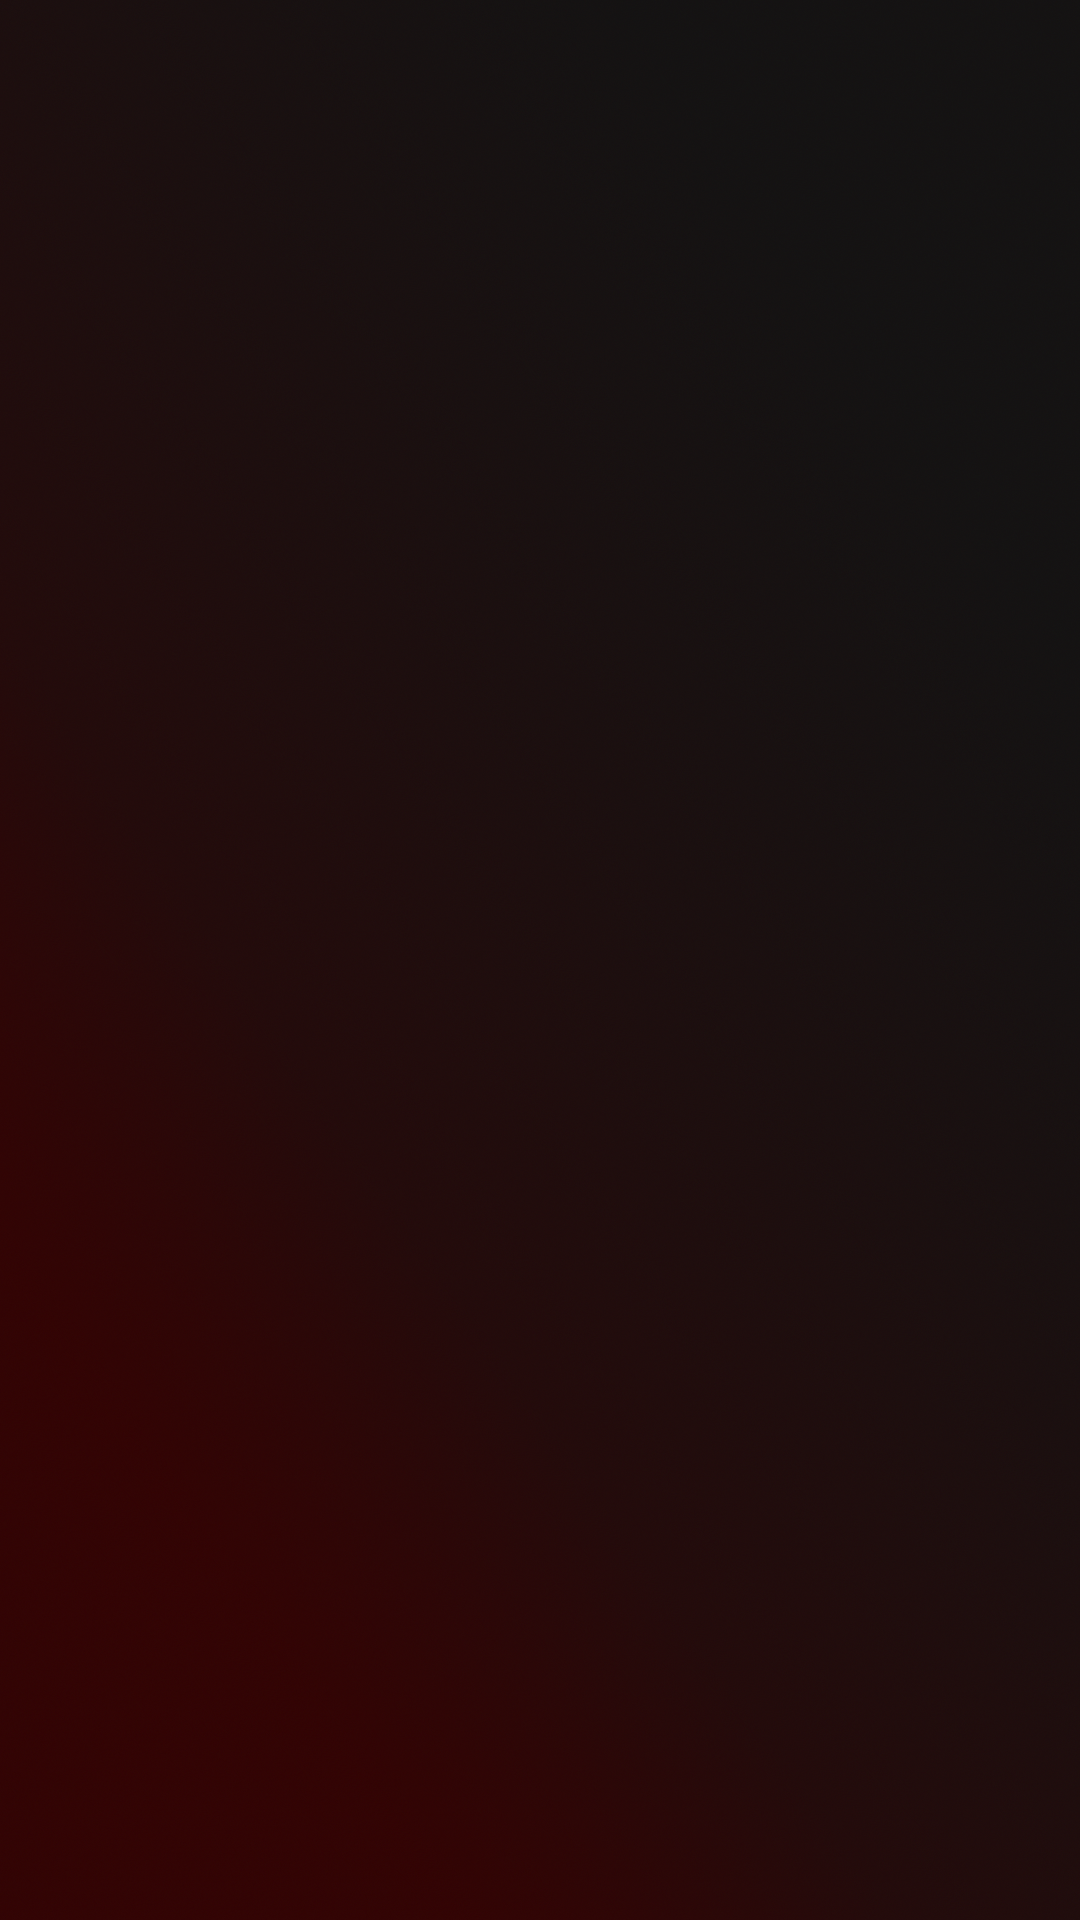
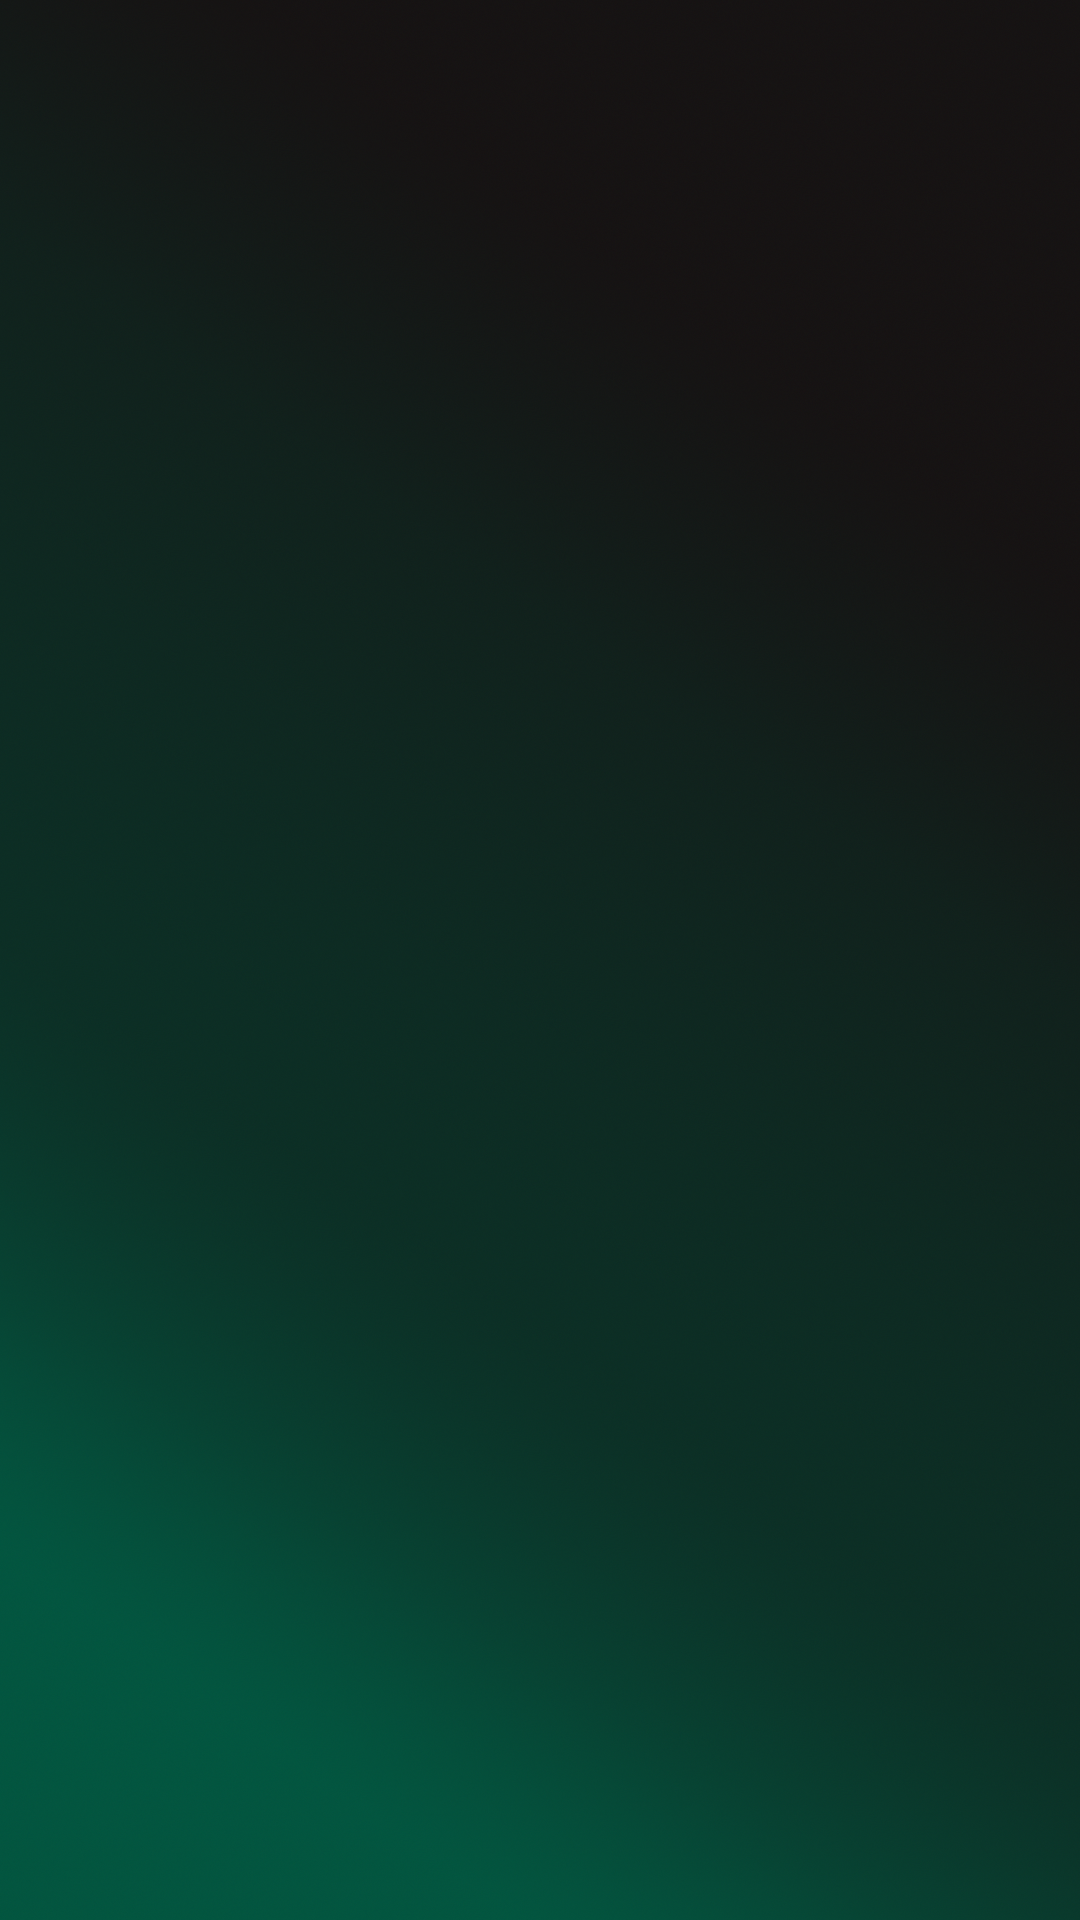
mise à jour design

diff --git a/App/lib/Components/Tools/Theme/ColorsTheme.dart b/App/lib/Components/Tools/Theme/ColorsTheme.dart
@@ -4,10 +4,10 @@ ThemeData darkTheme = ThemeData(
 	brightness: Brightness.light,
 	splashColor:  Colors.transparent,
 	focusColor: const Color.fromRGBO(238, 238, 238, 1),
-	primaryColor: const Color.fromRGBO(25, 25, 25, 1),
+	primaryColor: const Color.fromRGBO(34, 40, 47, 1),
 	colorScheme: const ColorScheme.light(
 		secondary: Color.fromRGBO(238, 238, 238, 1),
-		tertiary: Color.fromRGBO(229, 72, 77, 1)
+		tertiary: Color.fromRGBO(16, 223, 168, 1)
 	),
 	textSelectionTheme: const TextSelectionThemeData(
 		cursorColor: Color.fromARGB(255, 89, 157, 230),
@@ -19,7 +19,7 @@ ThemeData darkTheme = ThemeData(
 			color: Color.fromRGBO(180, 180, 180, 1),
 		)
 	),
-	scaffoldBackgroundColor: const Color.fromRGBO(17, 17, 17, 1),
+	scaffoldBackgroundColor: const Color.fromRGBO(20, 24, 29, 1),
 	dividerColor: const Color.fromARGB(255, 68, 67, 67),
 	shadowColor: Colors.black45
 );

diff --git a/App/lib/Components/FondamentalAppCompo/TopOfView.dart b/App/lib/Components/FondamentalAppCompo/TopOfView.dart
@@ -3,6 +3,7 @@ import 'package:flutter/cupertino.dart';
 import 'package:flutter/material.dart';
 import 'package:flutter/services.dart';
 import 'package:gap/gap.dart';
+import 'package:homeflix/Components/ViewComponents/LitleComponent.dart';
 
 class TopOfView extends StatefulWidget {
 	final VoidCallback refresh;
@@ -48,9 +49,13 @@ class _TopOfViewState extends State<TopOfView> {
 						children: [
 							Padding(
 								padding: const EdgeInsets.only(left: 7),
-								child: SizedBox(
+								child: Container(
 									height: 50,
 									width: 50,
+									decoration: BoxDecoration(
+										borderRadius: BorderRadius.circular(100),
+										boxShadow: [myShadow(context)]
+									),
 									child: Image.asset(
 										"src/images/logo.png",
 										fit: BoxFit.cover,

diff --git a/App/lib/Components/ViewComponents/CategoriGen.dart b/App/lib/Components/ViewComponents/CategoriGen.dart
@@ -45,10 +45,10 @@ class _CategorigenState extends State<Categorigen> {
 				backgroundColor: Theme.of(context).primaryColor,
 				foregroundColor: Theme.of(context).colorScheme.tertiary,
 				shape: RoundedRectangleBorder(
-					borderRadius: BorderRadius.circular(15),
+					borderRadius: BorderRadius.circular(10),
 					side: BorderSide(
-						width: 1,
-						color: Theme.of(context).dividerColor
+						width: 0.5,
+						color: Theme.of(context).colorScheme.secondary
 					)
 				)
 			),

diff --git a/App/lib/Components/ViewComponents/ContentPages/YggGestionnary.dart b/App/lib/Components/ViewComponents/ContentPages/YggGestionnary.dart
@@ -125,9 +125,9 @@ class _YgggestionnaryState extends State<Ygggestionnary> {
 					style: sousText(),
 				),
 				const Gap(10),
-				Icon(
+				const Icon(
 					Icons.arrow_downward_rounded,
-					color: Theme.of(context).colorScheme.tertiary,
+					color: Color.fromRGBO(229, 72, 77, 1),
 					size: 20,
 				),
 				Text(
